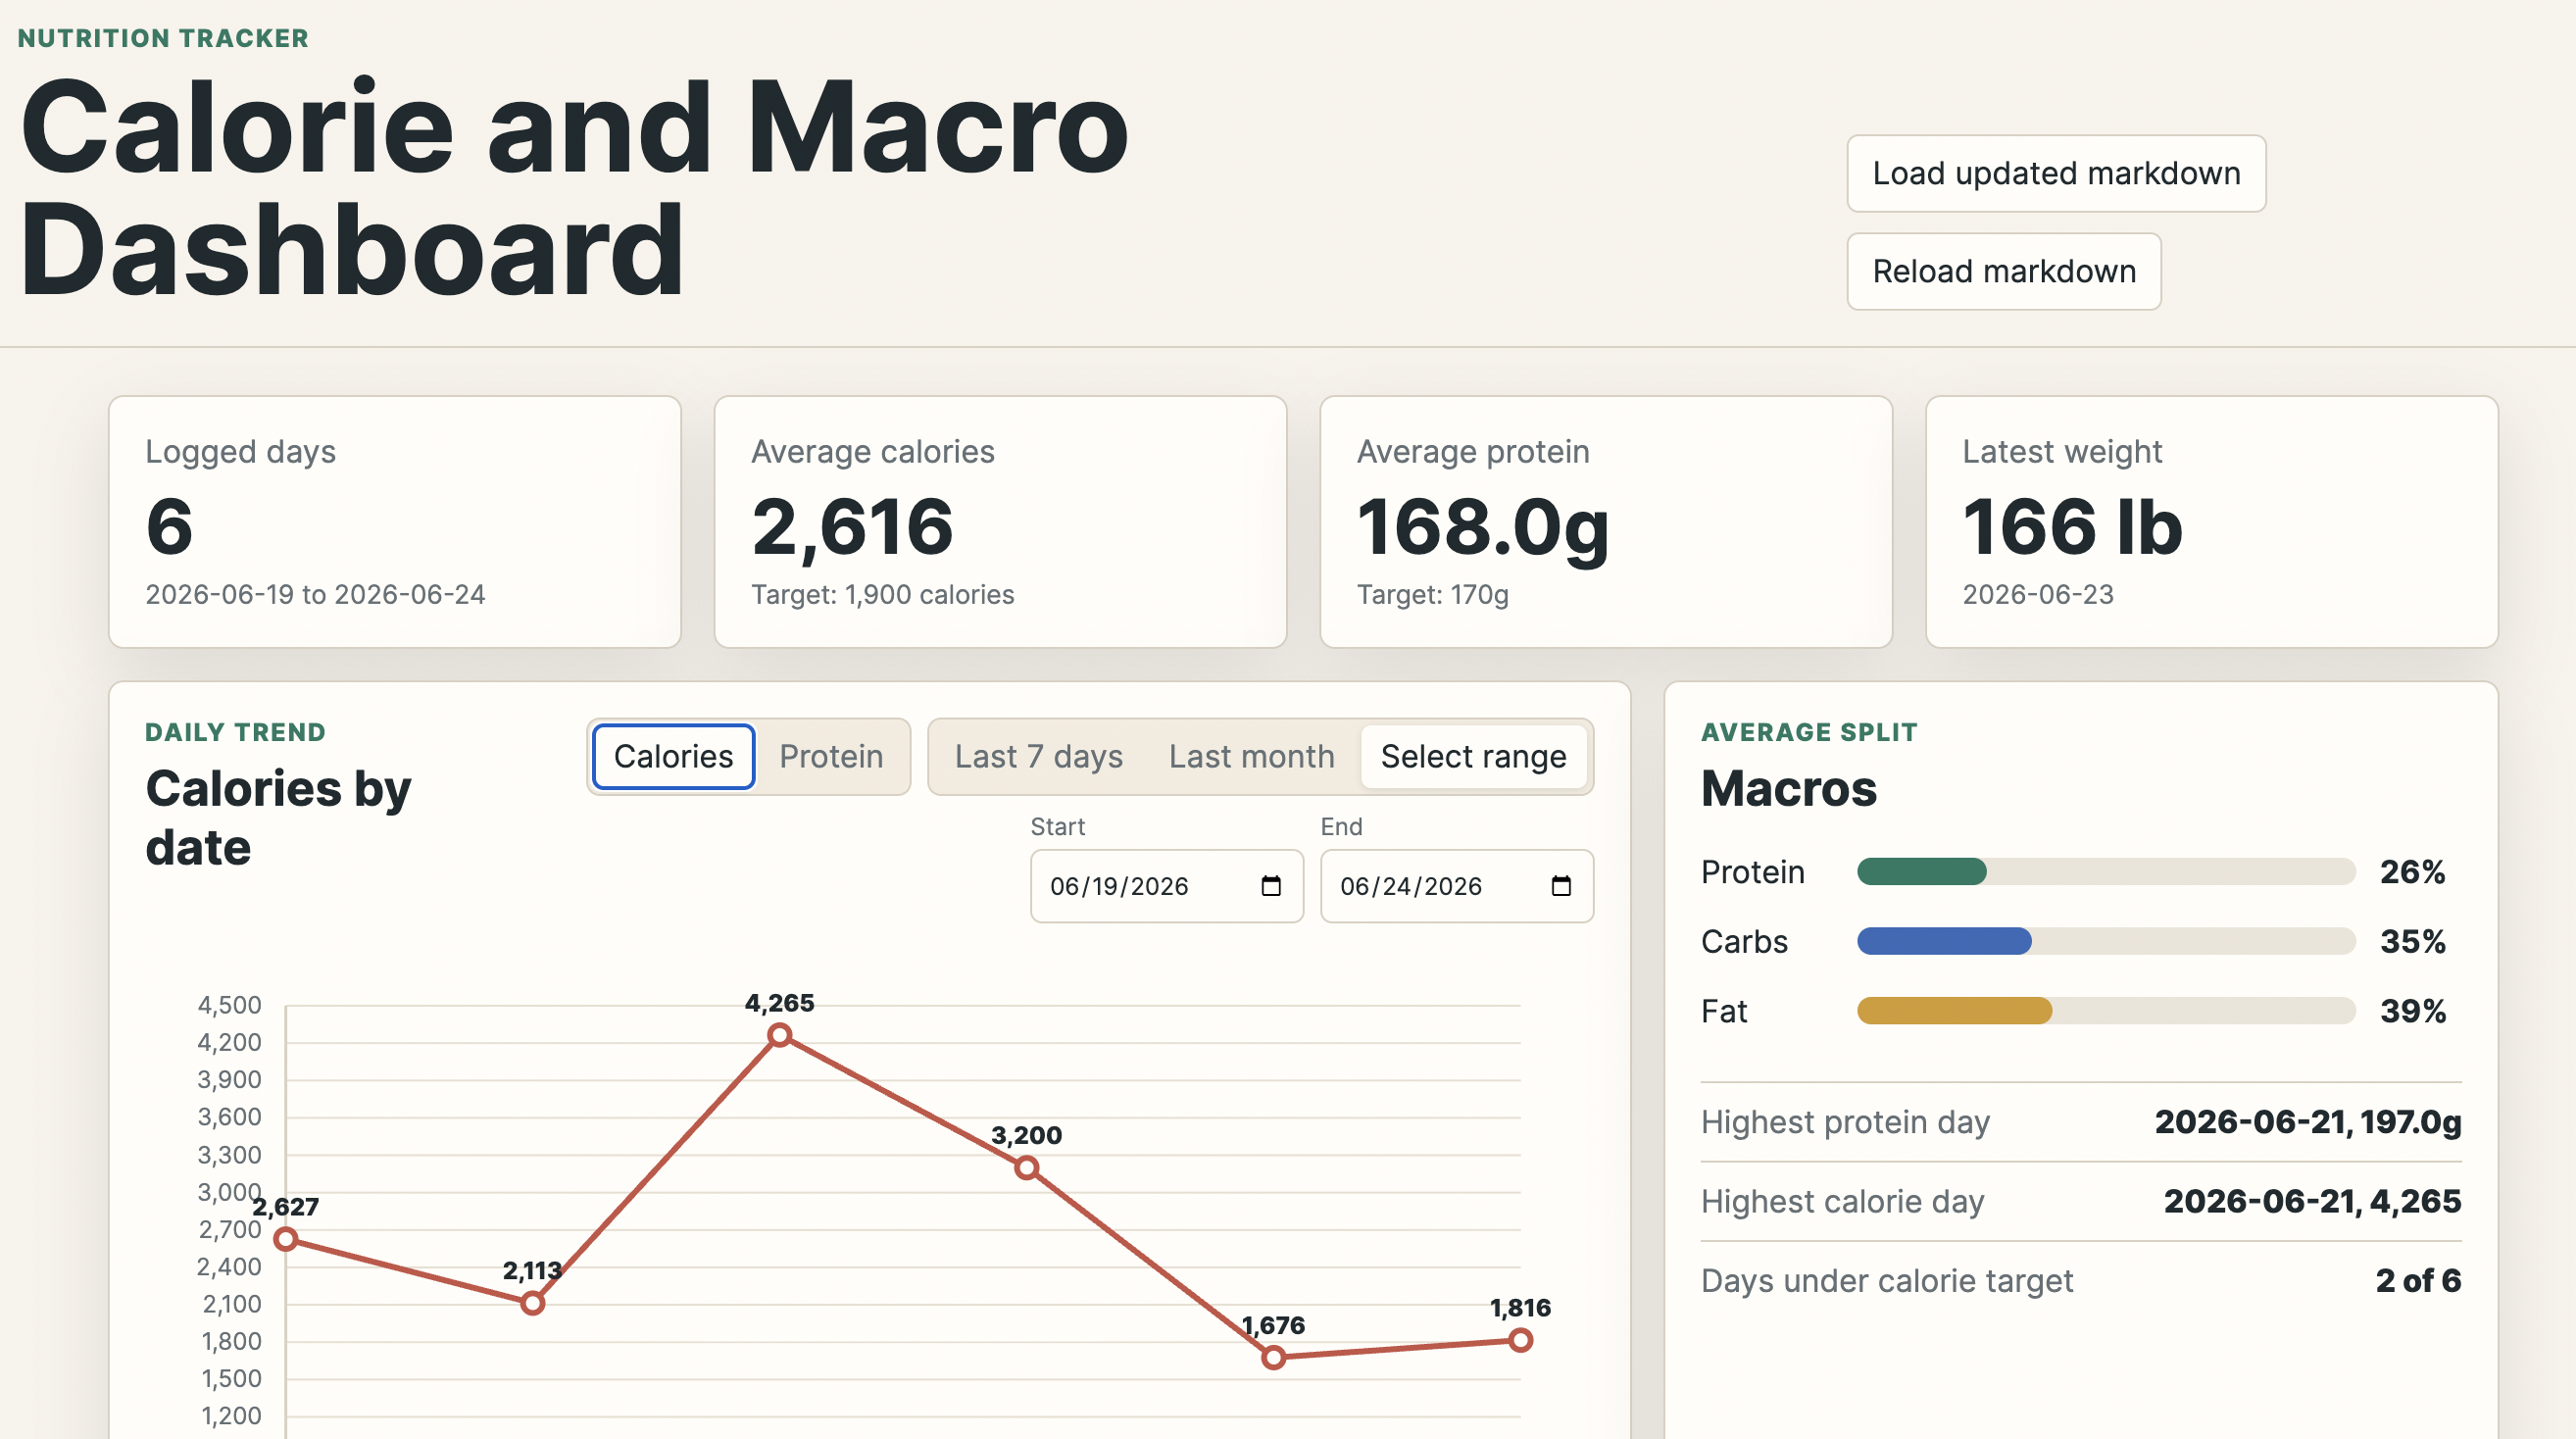
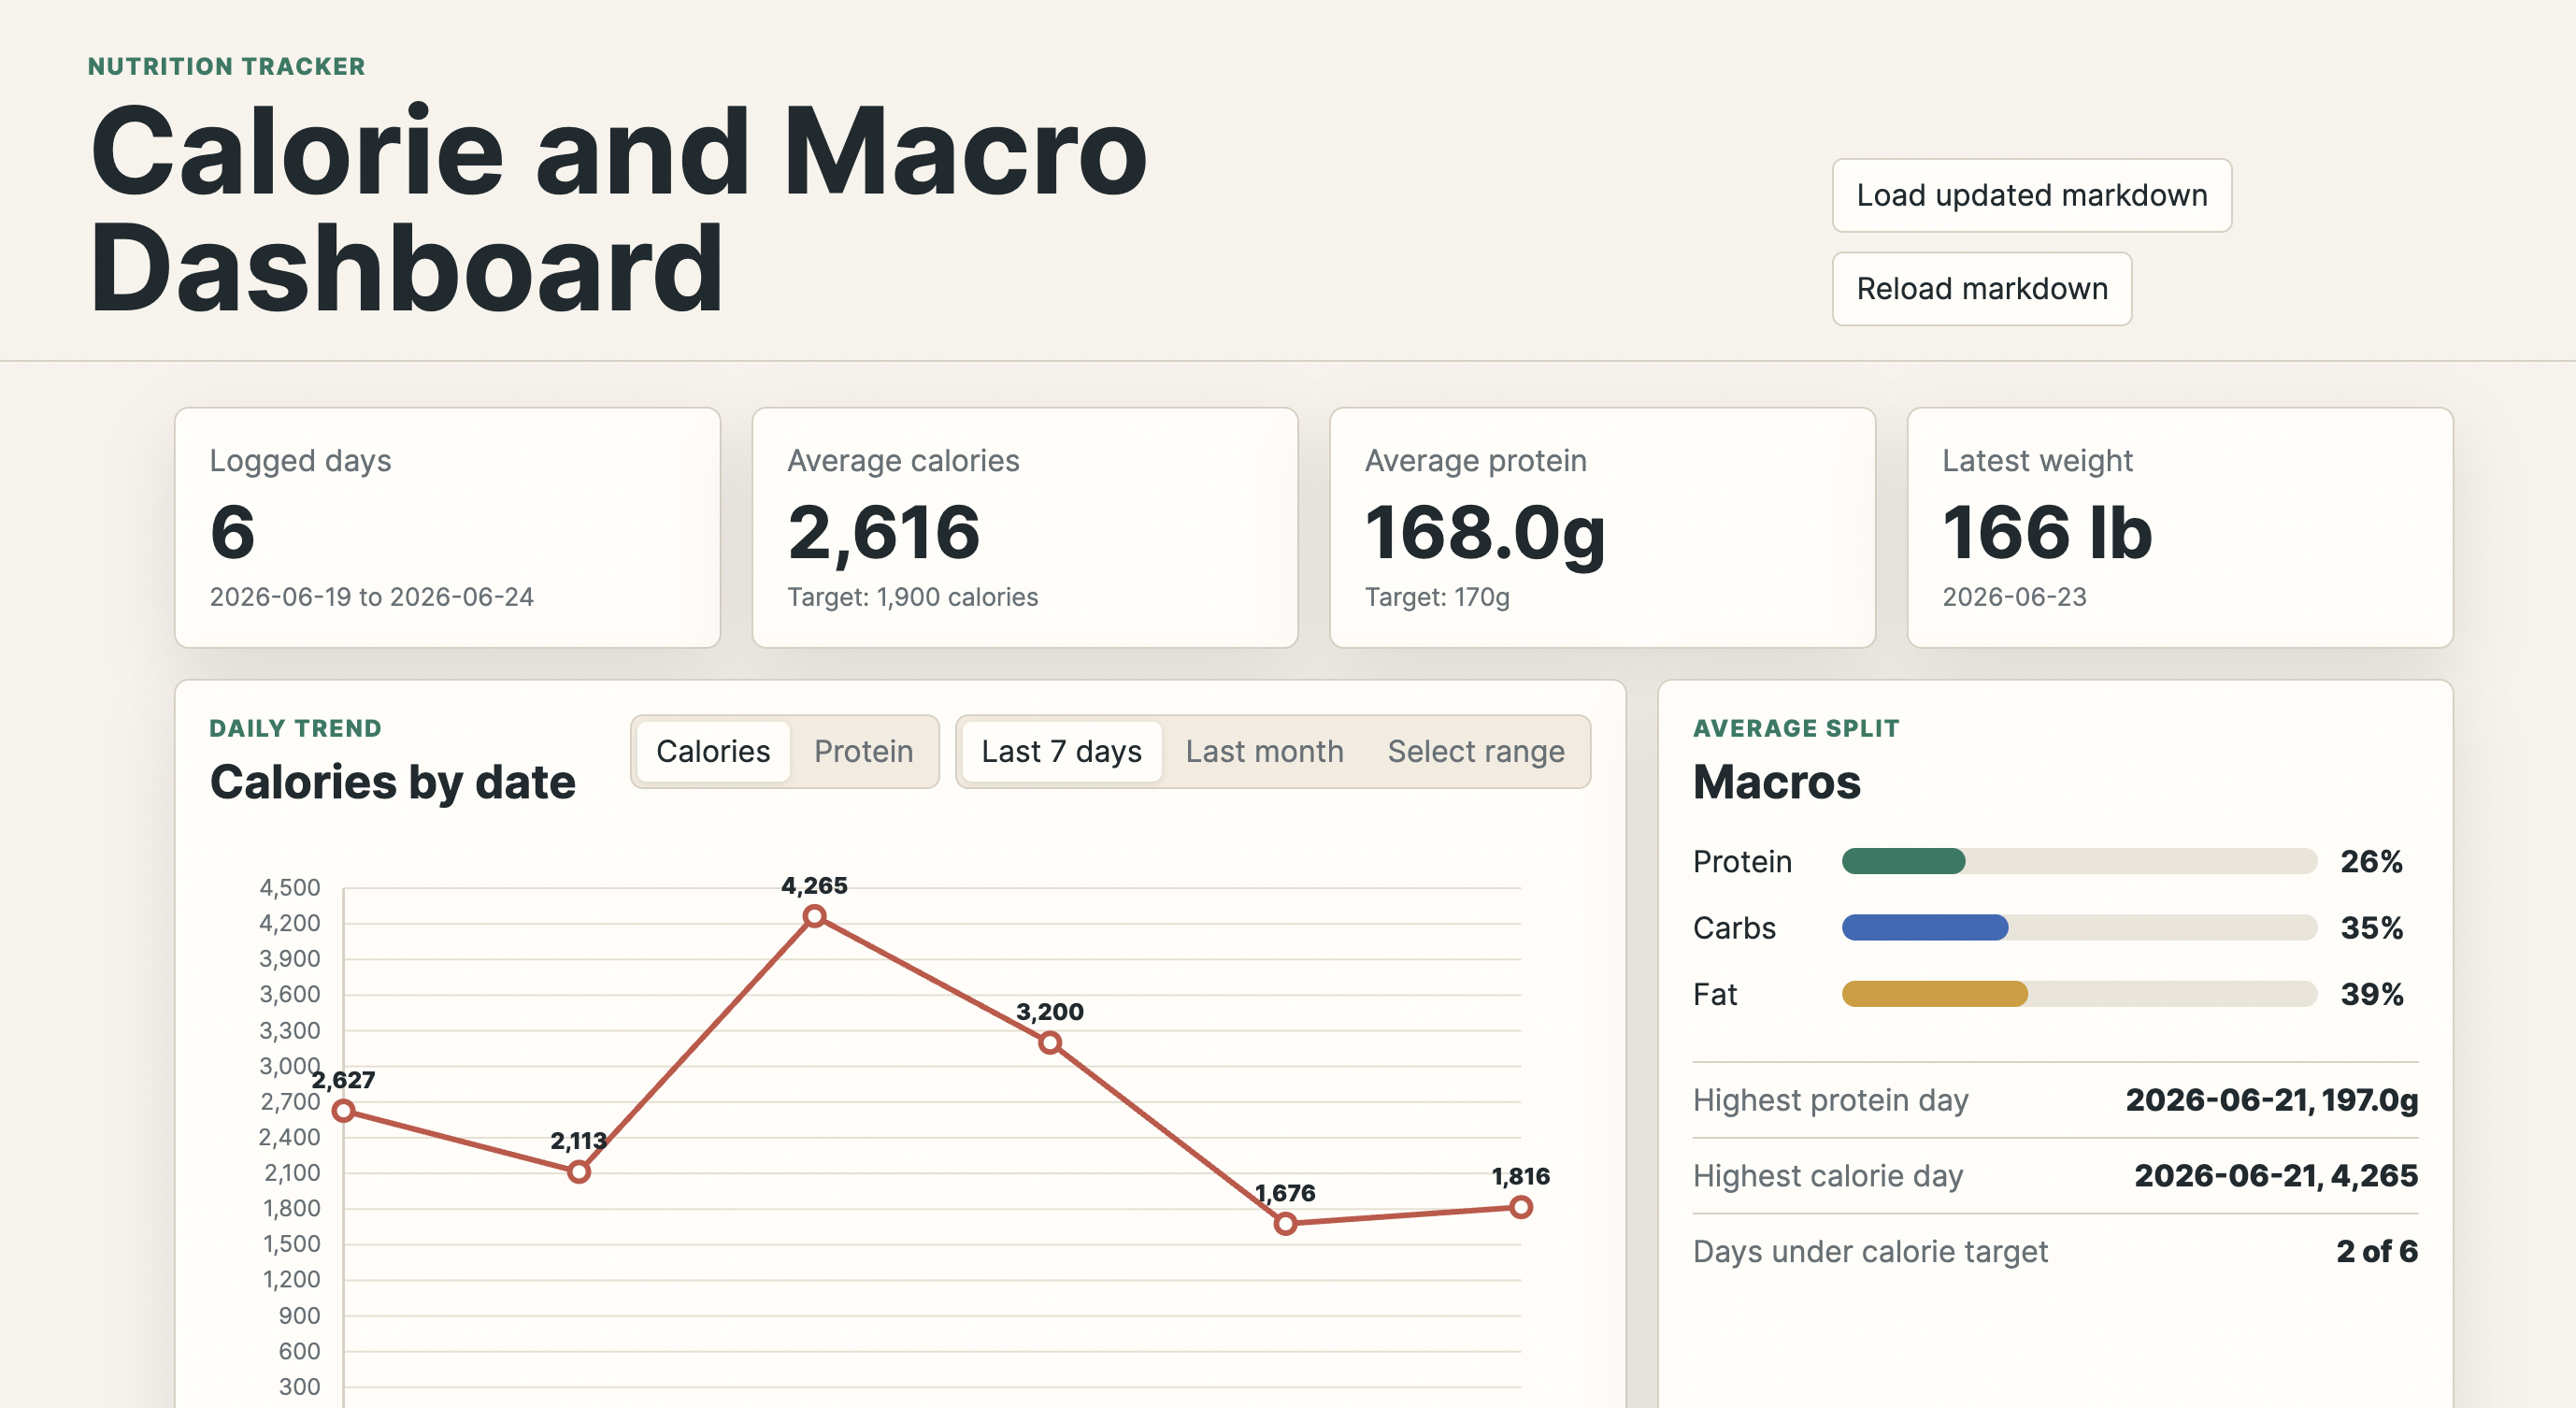
updated png dashboard

diff --git a/index.html b/index.html
@@ -219,7 +219,7 @@
             <div class="project-name">
               <a
                 id="project-link"
-                href="nutrition-dashboard/index.html"
+                href="https://github.com/Jjasonnli/Jjasonnli.github.io/tree/main/nutrition-dashboard"
                 target="_blank"
                 >Nutrition Dashboard</a
               >

diff --git a/nutrition-dashboard/Jason's_Calorie_and_Macro_Intake.md b/nutrition-dashboard/Jason's_Calorie_and_Macro_Intake.md
@@ -24,6 +24,7 @@ Use this file to track daily food intake, calories, and macros.
 | 2026-06-20 | 162.6 lb |
 | 2026-06-21 | 165 lb |
 | 2026-06-23 | 166 lb |
+| 2026-06-25 | 164.6 lb |
 
 ## Daily Log
 